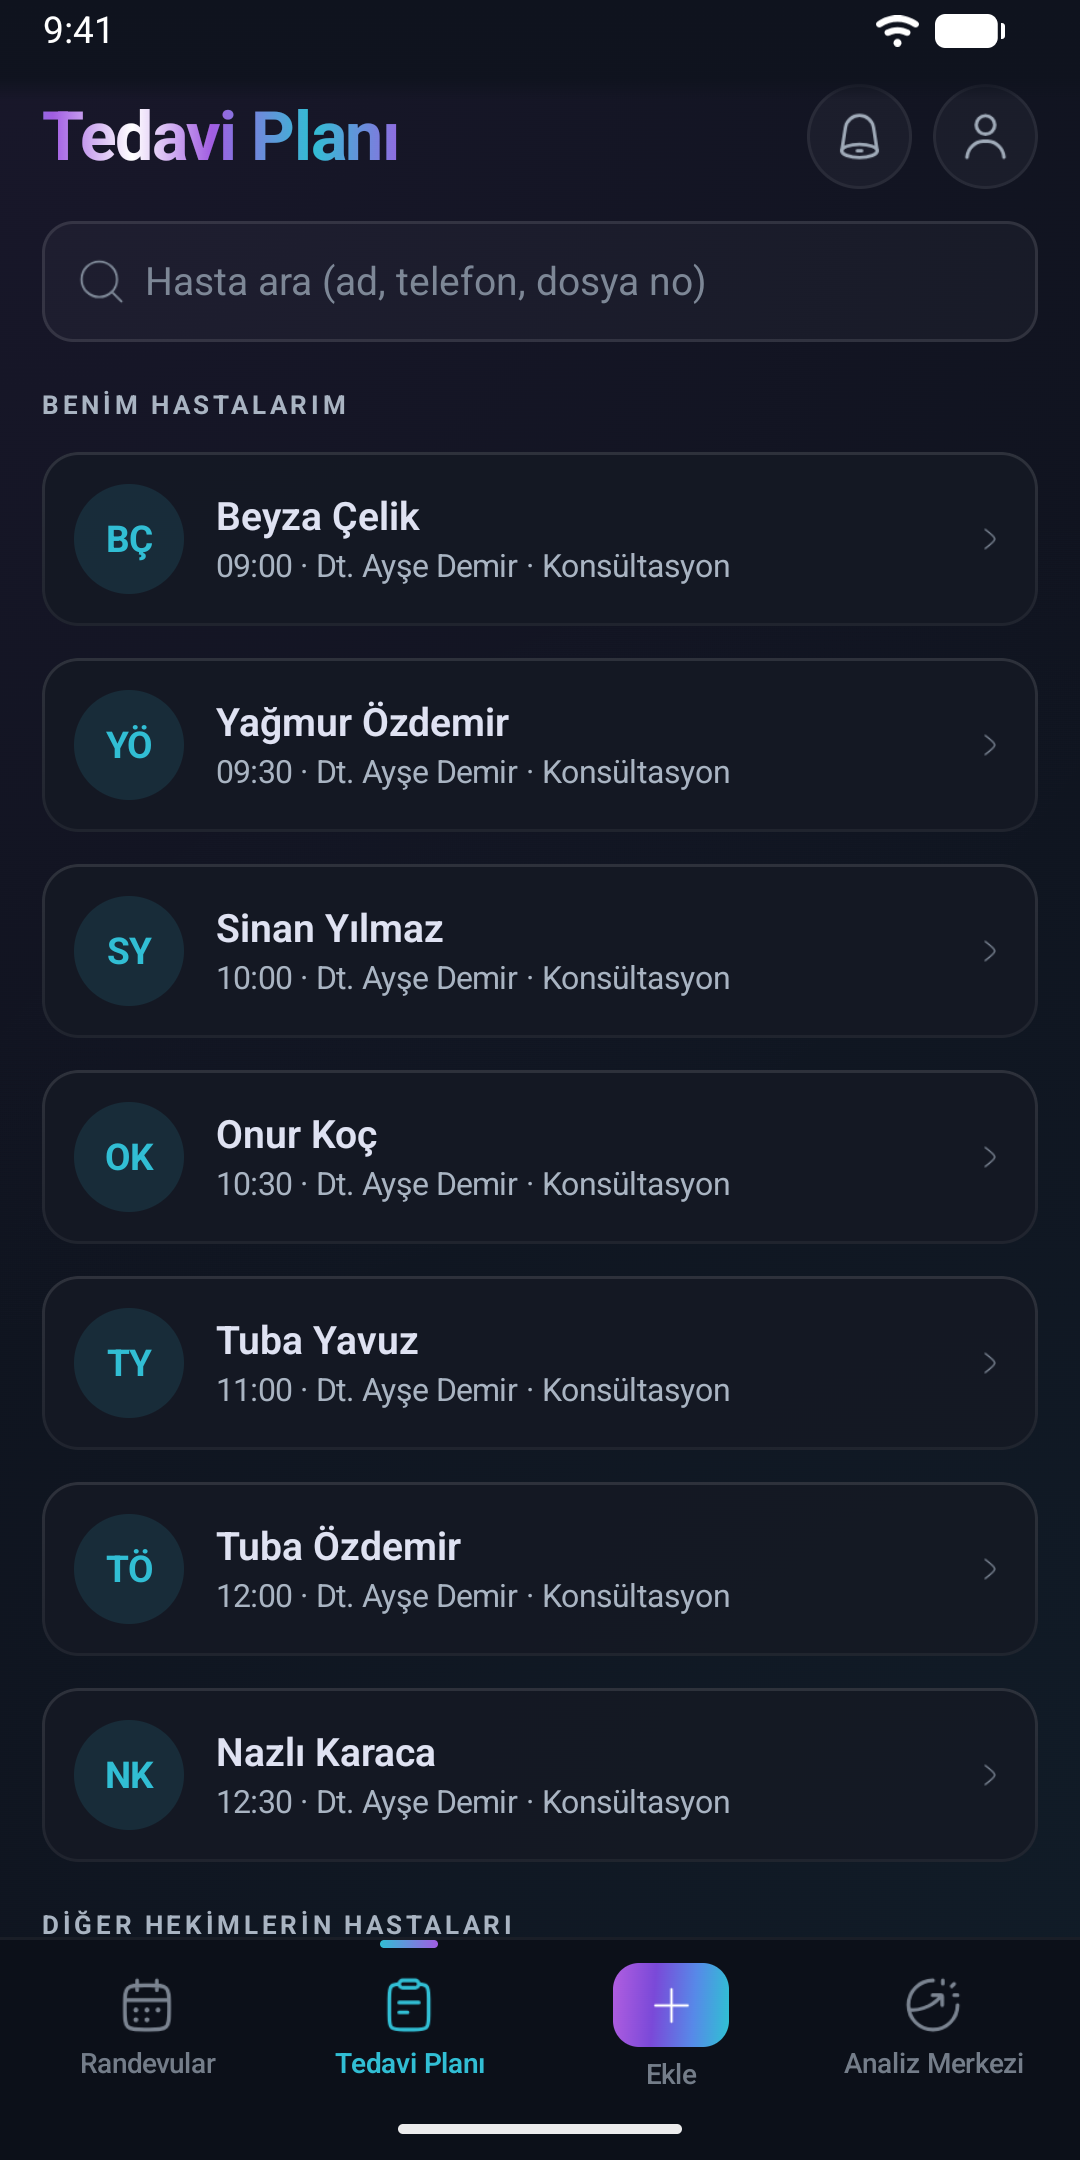
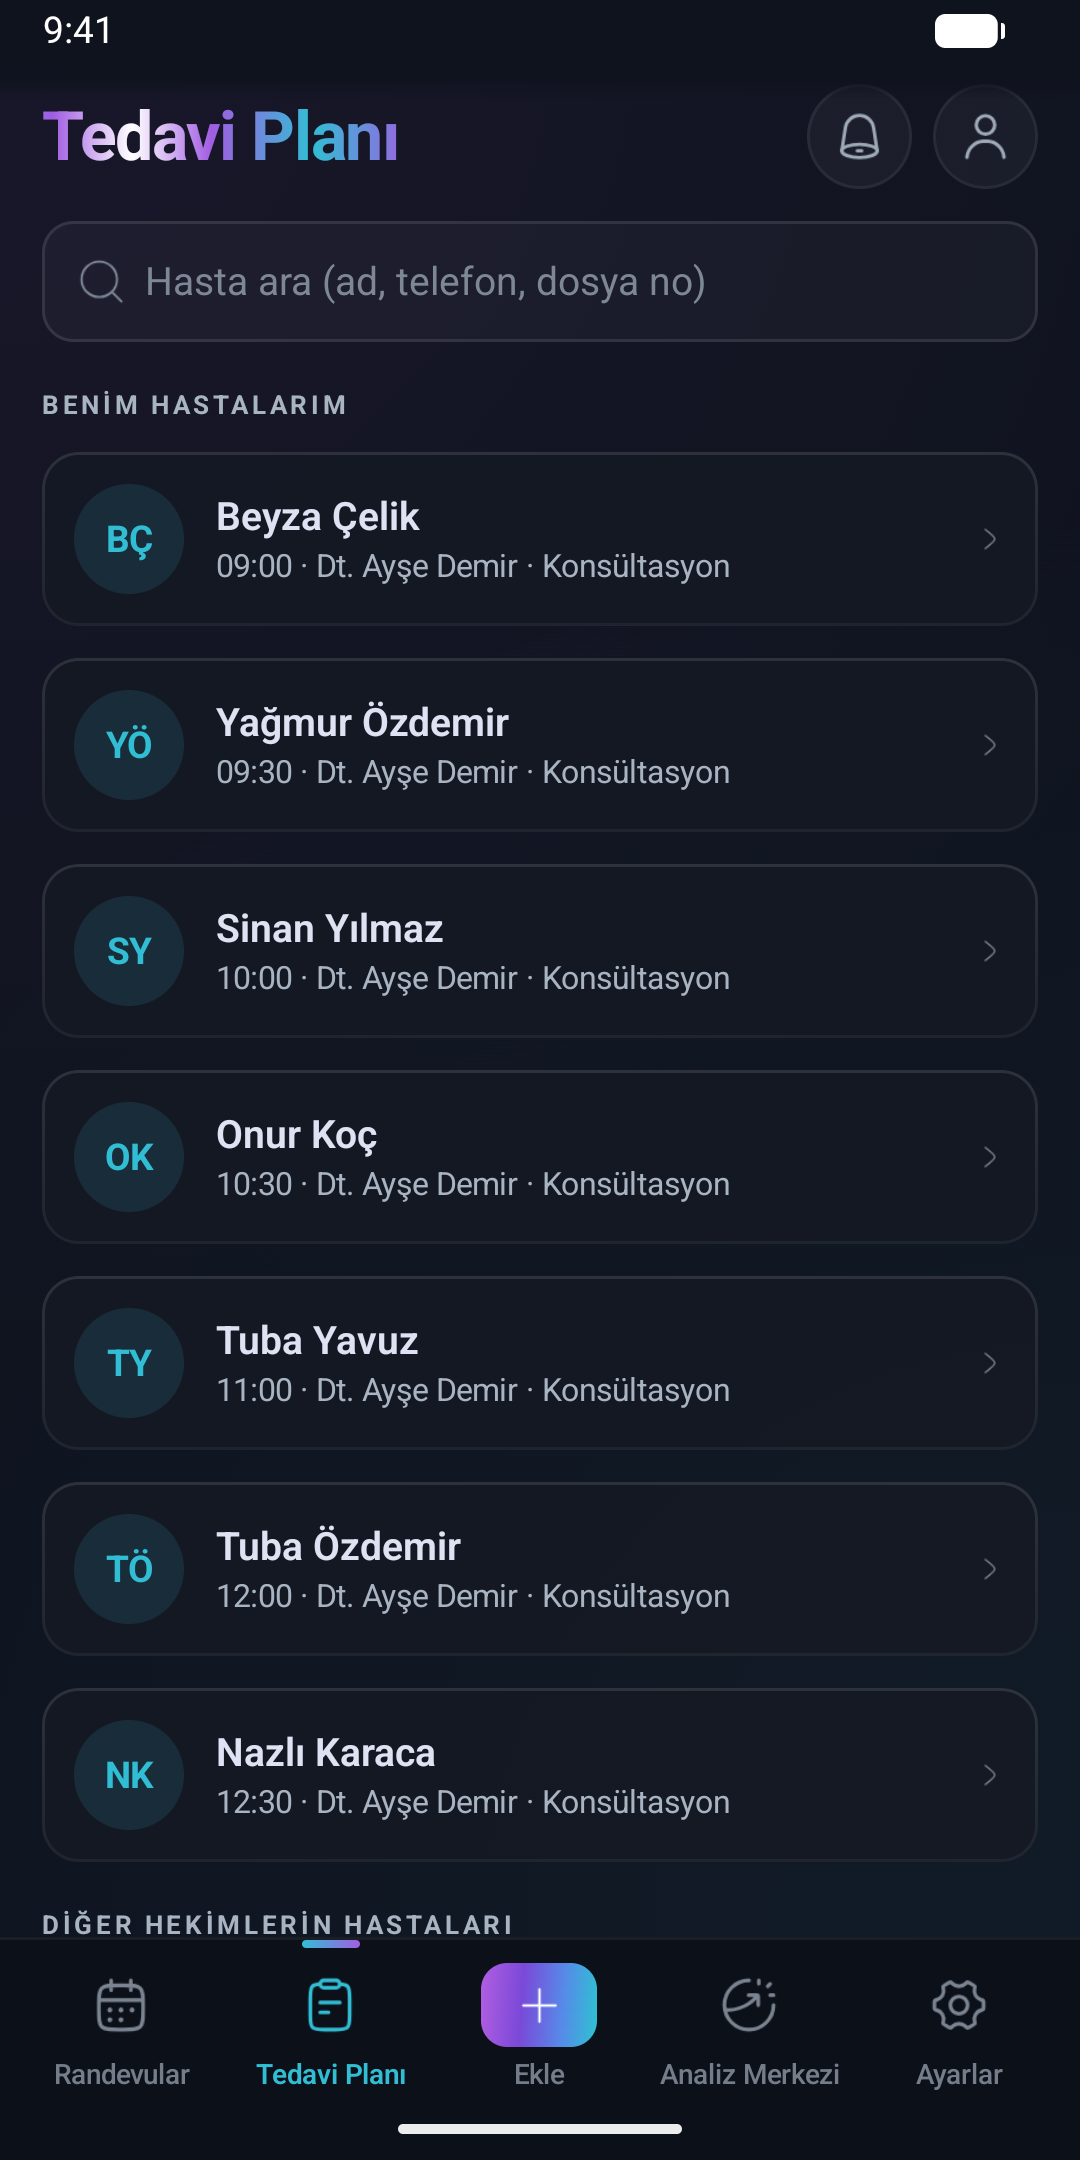
Alt çubuk: Ekle her zaman ortada, beş öğe (eksik sekme Ayarlar ile dolar); mağaza ekran görüntüleri yenilendi

diff --git a/app/src/main/java/com/dentifay/app/ui/BottomNavBar.kt b/app/src/main/java/com/dentifay/app/ui/BottomNavBar.kt
@@ -84,6 +84,21 @@ enum class TabItem {
             if (Yetki.analizKartlari.any { Yetki.gorur(caps, it) }) s += ai
             return s
         }
+
+        /**
+         * Alt çubuk düzeni: "Ekle" her zaman TAM ORTADA, iki yanda eşit sayıda yuva. Dört sekmesi olmayan rollerde (ör. hekim
+         * stoğu görmez) boşluk Ayarlar ile dolar — çubuk hep beş öğe olur. Kısa kalan yan dış kenardan boş yuvayla dengelenir.
+         * Dönen listede `null` boş yuvadır; `quickAdd` ortadaki düğmedir.
+         */
+        fun altCubuk(gorunur: Set<TabItem>): List<TabItem?> {
+            val yan = SIRA.filter { it in gorunur && it != quickAdd }.toMutableList()
+            if (yan.size < 4 && settings in gorunur) yan += settings
+            if (quickAdd !in gorunur) return yan
+            val sol = yan.take((yan.size + 1) / 2)
+            val sag = yan.drop(sol.size)
+            val n = maxOf(sol.size, sag.size)
+            return List(n - sol.size) { null } + sol + quickAdd + sag + List(n - sag.size) { null }
+        }
     }
 }
 
@@ -99,7 +114,7 @@ fun BottomNavBar(
     gorunur: Set<TabItem> = TabItem.entries.toSet(),
     onQuickAddTap: () -> Unit = {},
 ) {
-    val sira = TabItem.SIRA.filter { it in gorunur }
+    val sira = remember(gorunur) { TabItem.altCubuk(gorunur) }
     Column(modifier.fillMaxWidth().background(hex("0c1019"))) {
         Box(Modifier.fillMaxWidth().height(1.dp).background(DS.Colors.hairline))
         BoxWithConstraints(Modifier.fillMaxWidth().padding(start = 6.dp, end = 6.dp, top = 8.dp, bottom = 2.dp)) {
@@ -109,7 +124,8 @@ fun BottomNavBar(
             val x by animateDpAsState(slot * index.coerceAtLeast(0) + (slot - 22.dp) / 2, Motion.easeOut(200), label = "tabLine")
             Row(Modifier.fillMaxWidth()) {
                 sira.forEach { tab ->
-                    if (tab == TabItem.quickAdd) QuickAddButton(Modifier.weight(1f), onQuickAddTap)
+                    if (tab == null) Spacer(Modifier.weight(1f))
+                    else if (tab == TabItem.quickAdd) QuickAddButton(Modifier.weight(1f), onQuickAddTap)
                     else TabButton(tab, selectedTab == tab, Modifier.weight(1f)) {
                         if (selectedTab != tab) Haptics.selection()
                         onSelect(tab)
@@ -143,7 +159,8 @@ private fun TabButton(tab: TabItem, isActive: Boolean, modifier: Modifier, onCli
         horizontalAlignment = Alignment.CenterHorizontally,
         verticalArrangement = Arrangement.spacedBy(4.dp, Alignment.CenterVertically),
     ) {
-        Box(Modifier.height(24.dp), contentAlignment = Alignment.Center) { DfyIcon(tab.icon, size = 19.dp, tint = iconColor) }
+        // Ortadaki "Ekle" kutusuyla aynı yükseklik: etiketler tek çizgide durur, ikonlar artı işaretiyle aynı hizada.
+        Box(Modifier.height(32.dp), contentAlignment = Alignment.Center) { DfyIcon(tab.icon, size = 19.dp, tint = iconColor) }
         Text(
             tab.label,
             style = sys(10.5, if (isActive) FontWeight.SemiBold else FontWeight.Medium),

diff --git a/app/src/test/java/com/dentifay/app/ui/AltCubukTest.kt b/app/src/test/java/com/dentifay/app/ui/AltCubukTest.kt
@@ -1,0 +1,41 @@
+package com.dentifay.app.ui
+
+import com.dentifay.app.ui.TabItem.ai
+import com.dentifay.app.ui.TabItem.hastaTedavi
+import com.dentifay.app.ui.TabItem.home
+import com.dentifay.app.ui.TabItem.quickAdd
+import com.dentifay.app.ui.TabItem.settings
+import com.dentifay.app.ui.TabItem.stock
+import org.junit.Assert.assertEquals
+import org.junit.Test
+
+/** Alt çubuk: "Ekle" hep ortada, yanlarda eşit yuva; dört sekmesi olmayan rolde boşluk Ayarlar ile dolar. */
+class AltCubukTest {
+
+    @Test
+    fun tumYetkiler() {
+        assertEquals(listOf(home, hastaTedavi, quickAdd, stock, ai), TabItem.altCubuk(TabItem.entries.toSet()))
+    }
+
+    @Test
+    fun hekimStokGormez_AyarlarDoldurur() {
+        assertEquals(
+            listOf(home, hastaTedavi, quickAdd, ai, settings),
+            TabItem.altCubuk(setOf(home, hastaTedavi, quickAdd, ai, settings)),
+        )
+    }
+
+    @Test
+    fun azSekme_EkleYineOrtada() {
+        val c = TabItem.altCubuk(setOf(home, quickAdd, settings))
+        assertEquals(listOf(home, quickAdd, settings), c)
+        val tek = TabItem.altCubuk(setOf(quickAdd, settings))
+        assertEquals(listOf(settings, quickAdd, null), tek)
+        assertEquals(tek.size / 2, tek.indexOf(quickAdd))
+    }
+
+    @Test
+    fun ekleYoksaOrtaDugmeYok() {
+        assertEquals(listOf(home, stock, settings), TabItem.altCubuk(setOf(home, stock, settings)))
+    }
+}

diff --git a/play-store/YAYIN-REHBERI.md b/play-store/YAYIN-REHBERI.md
@@ -158,7 +158,7 @@ Play Console → **Uygulama oluştur**:
 |---|---|---|
 | Uygulama simgesi 512×512 | `simge-512.png` | ✅ hazır |
 | Öne çıkan grafik 1024×500 | `kapak-1024x500.png` | ✅ hazır |
-| Telefon ekran görüntüleri (5 adet, 1080×2160, alfa kanalsız PNG) | `ekran-goruntuleri/telefon-1-giris.png` … `telefon-5-tedavi-plani.png` | ✅ hazır (örnek klinik verisi; hasta telefonları yer tutucu) |
+| Telefon ekran görüntüleri (6 adet, 1080×2160, alfa kanalsız PNG) | `ekran-goruntuleri/telefon-1-giris.png` … `telefon-6-analiz-merkezi.png` | ✅ hazır (örnek klinik verisi; hasta telefonları yer tutucu) |
 | 7 inç ve 10 inç tablet ekran görüntüleri (tablet listesinde görünmek için önerilir) | — | ⏳ çekilecek (tablet düzeni test edildi; emülatör düşük bellekte çöktüğü için görüntü alınamadı) |
 
 **Kategori ve iletişim** (Mağaza ayarları):
